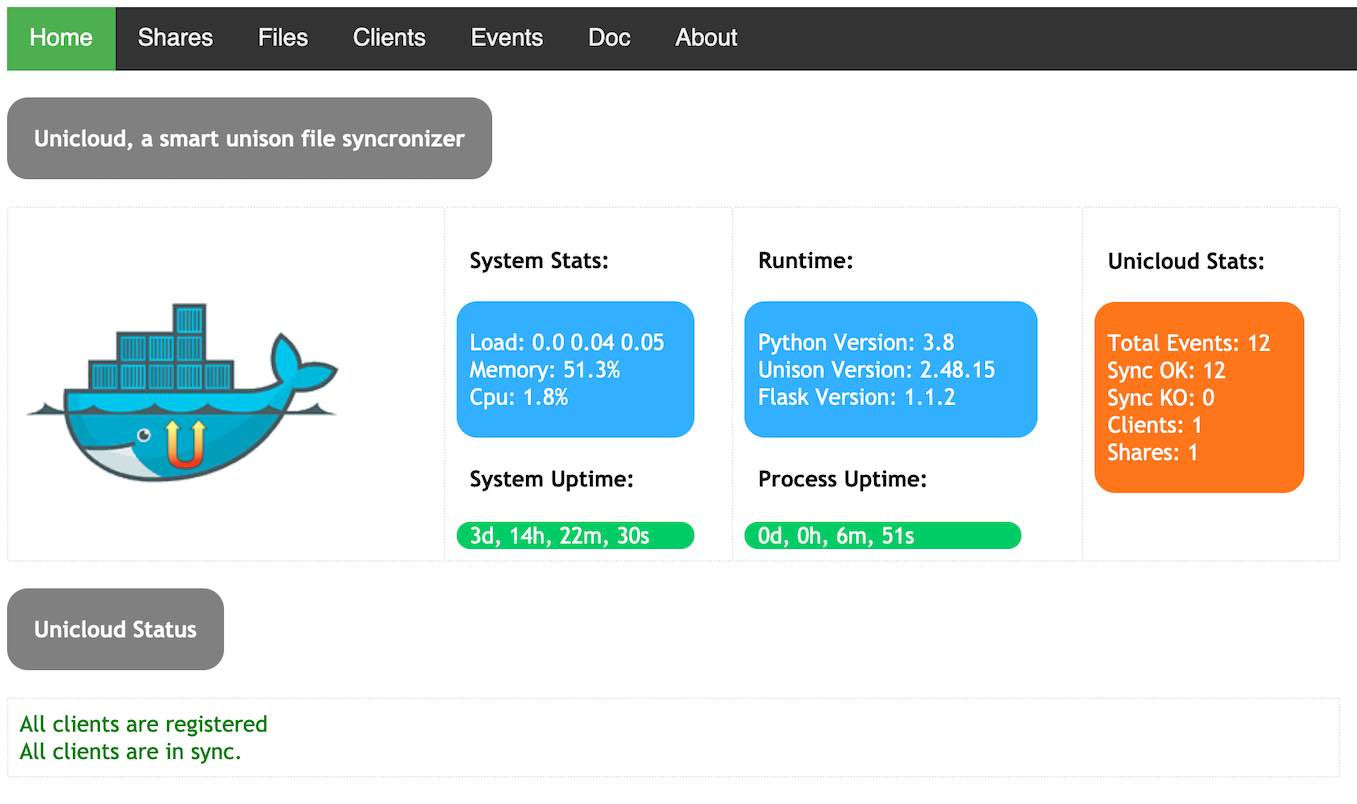
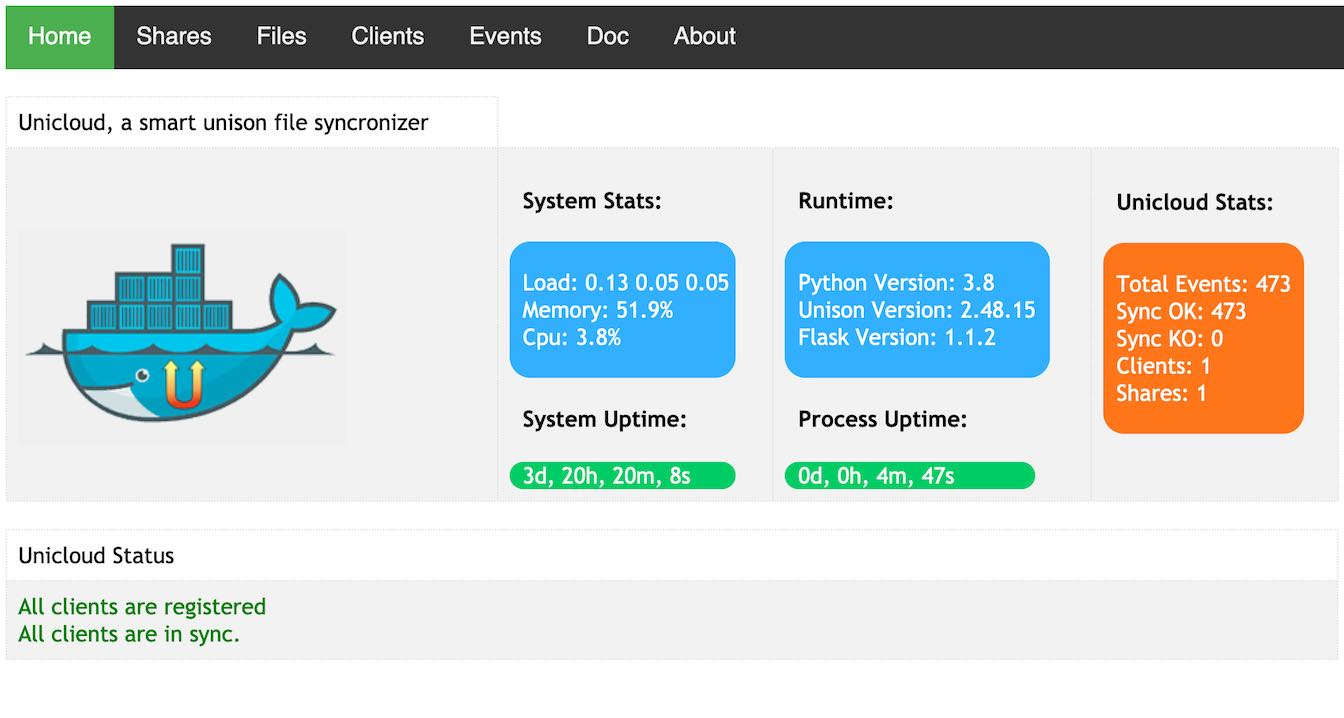
screenshots

diff --git a/app/templates/index.html b/app/templates/index.html
@@ -12,14 +12,16 @@
     {% set orange = "#ff751a" %}
 {#    <h1><strong>Unicloud, a smart unison file syncronizer</strong></h1>#}
     <br>
-    <div class="stats">
-           <span style='color: {{ white }};background-color: {{ grey }}'>
-           <strong><br>&nbsp;&nbsp;&nbsp;&nbsp;Unicloud, a smart unison file syncronizer&nbsp;&nbsp;&nbsp;&nbsp;<br><br></strong>
-           </span>
-    </div><br>
+{#    <div class="stats">#}
+{#           <span style='color: {{ white }};background-color: {{ grey }}'>#}
+{#           <strong><br>&nbsp;&nbsp;&nbsp;&nbsp;Unicloud, a smart unison file syncronizer&nbsp;&nbsp;&nbsp;&nbsp;<br><br></strong>#}
+{#           </span>#}
+{#    </div><br>#}
     <table id="hometable">
-            <td><br>
-              <img align="center" src="/static/images/unibox-home.png">
+            <tr><td>Unicloud, a smart unison file syncronizer
+            </td></tr>
+            <tr><td><br>
+              <img align="center" src="/static/images/unibox-home2.png">
             </td>
             <td>
             <br><strong>&nbsp;&nbsp;System Stats: <br><br></strong>
@@ -67,13 +69,15 @@
             </td>
         </tr>
     </table><br>
-    <div class="stats">
-           <span style='color: {{ white }};background-color: {{ grey }}'>
-           <br><strong>&nbsp;&nbsp;&nbsp;&nbsp;Unicloud Status&nbsp;&nbsp;&nbsp;&nbsp;<br><br></strong>
-           </span>
-    </div><br>
+
     <table id="hometable">
        <tr><td>
+           <div>
+{#           <span style='color: {{ white }};background-color: {{ grey }}'>#}
+           Unicloud Status<br>
+{#           </span>#}
+           </div></td></tr>
+          <tr><td>
           {% if unicloud_stats['toregister'] > 0 %}
              <span style='color: {{ red }};'>
              Found {{ unicloud_stats['toregister'] }} client/s to register, go to <a title="Clients" href="/clients">clients</a> page to complete registration<br>
